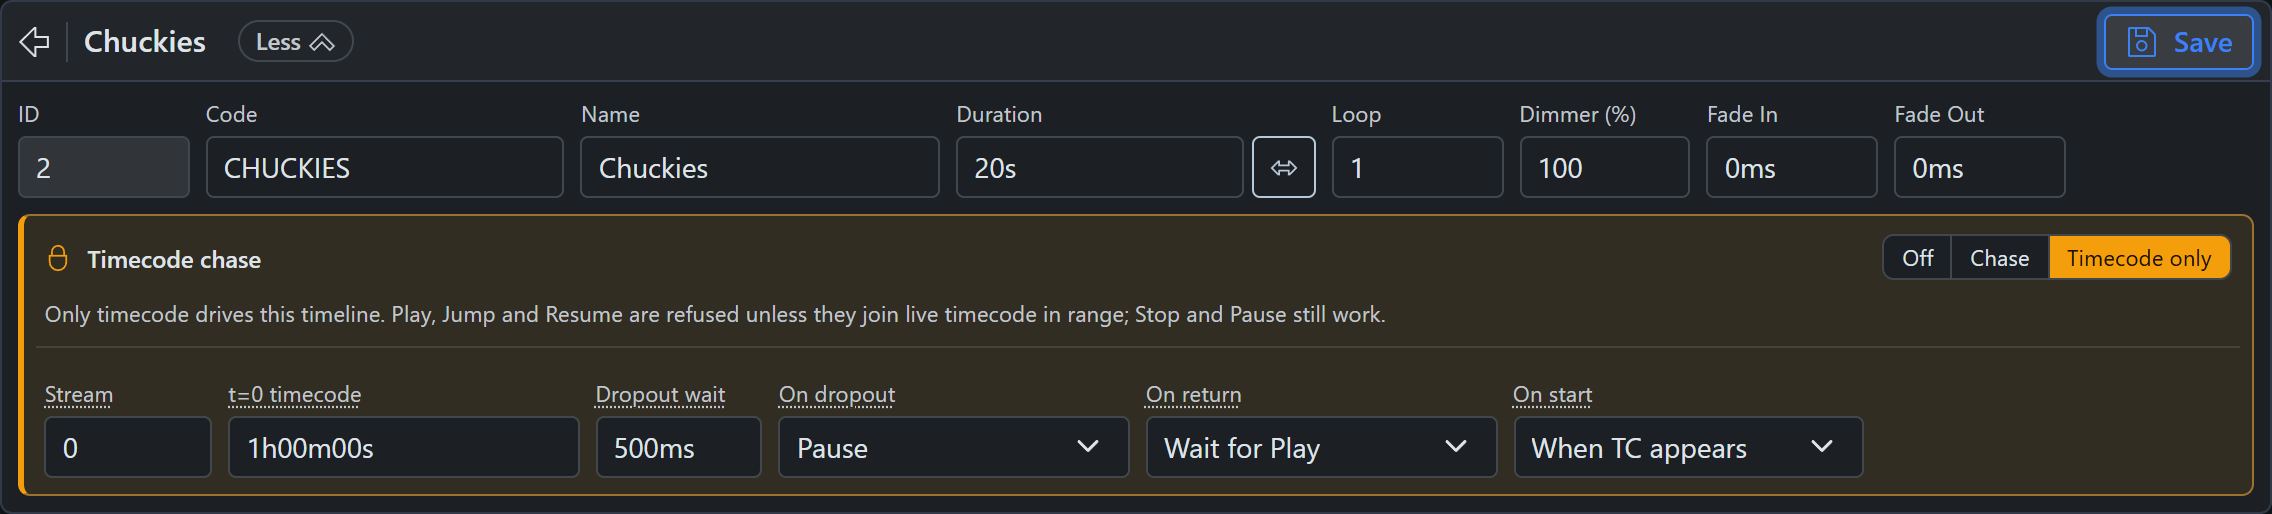
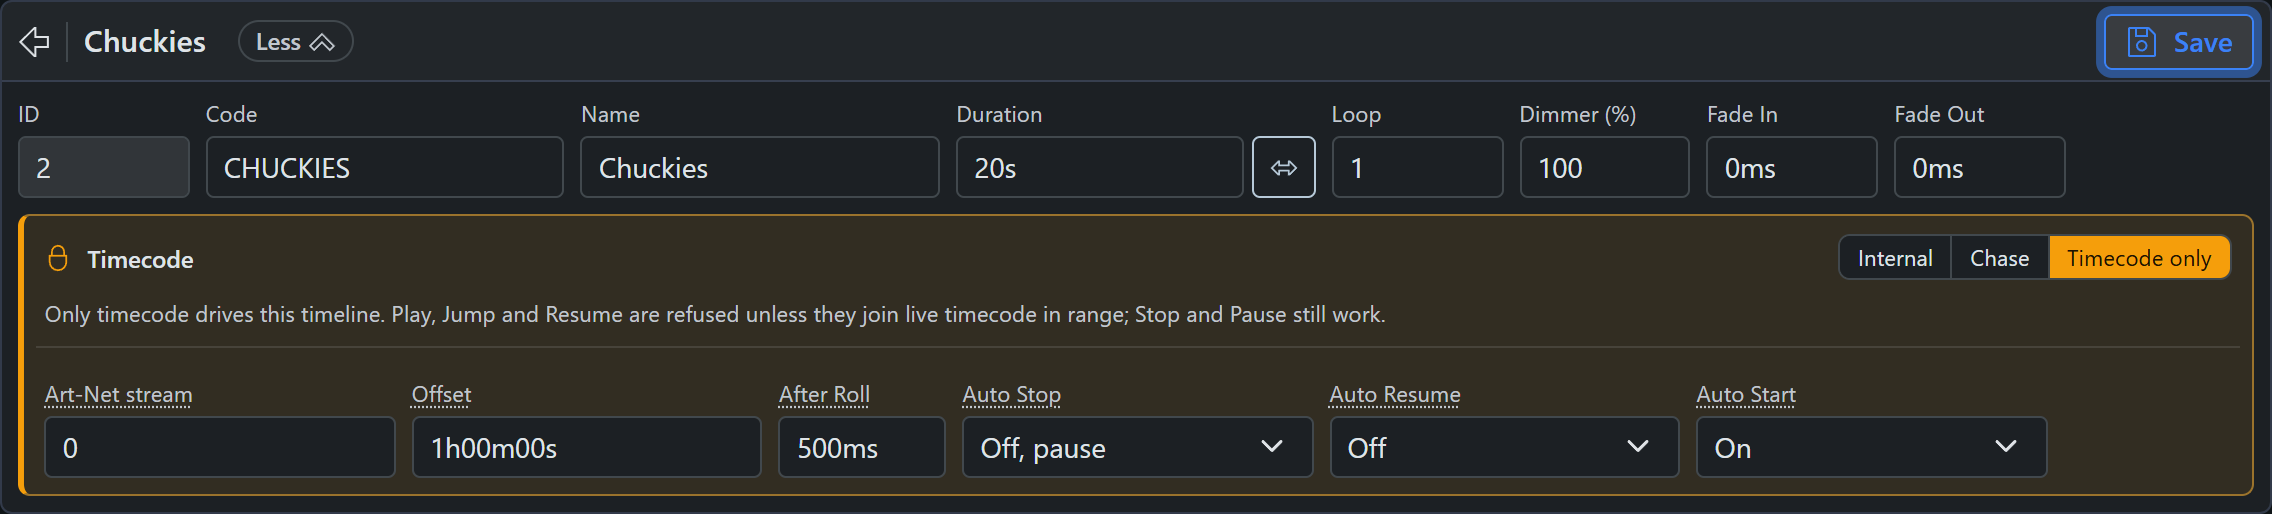
Timecode chase: use the grandMA3 vocabulary throughout (Internal / Chase / Timecode only, Offset, After Roll, Auto Stop, Auto Resume, Auto Start, Art-Net stream), rewrite the dropout and start sections around it, and refresh the settings screenshot.

diff --git a/src/content/docs/dmx-core-100/playback/timecode-chase.md b/src/content/docs/dmx-core-100/playback/timecode-chase.md
@@ -1,6 +1,6 @@
 ---
 title: Timecode Chase
-description: Lock a timeline to incoming Art-Net timecode so playback joins the site clock instead of starting at t=0
+description: Lock a timeline to incoming Art-Net timecode so playback joins the site clock instead of starting at the beginning
 ---
 
 **Timecode chase** locks a timeline to incoming **Art-Net ArtTimeCode** so the playhead follows a site-wide clock instead of starting at the cursor. Play joins *wherever that clock is now* — three minutes into a show after a reboot, or at the same frame as every other controller on the network.
@@ -9,8 +9,10 @@ Typical setup: QLab, TimeCore, Timecode Expert, or another ArtTimeCode generator
 
 This is a **playhead chase**, not a per-cue timecode trigger. Cues, presets, and sounds on the timeline still fire by their timeline times; the clock only decides *where* the playhead is. A join that lands inside a cue or sound starts it part-way through (a soundtrack picks up mid-file); events that were already over before the join point are skipped.
 
+The settings use the same vocabulary as grandMA3's timecode shows and slots — **Internal**, **Offset**, **After Roll**, **Auto Start**, **Auto Stop** — so an operator coming from a console should find them familiar.
+
 :::tip[Web UI only]
-Chase is configured in the timeline editor, under **Lighting > Timelines**. Playback still starts from anywhere — touchscreen, schedules, custom menus, control surfaces, and [input triggers](/dmx-core-100/scheduling-automation/input-triggers) — unless the timeline is set to [Timecode only](#timecode-only).
+Timecode is configured in the timeline editor, under **Lighting > Timelines**. Playback still starts from anywhere — touchscreen, schedules, custom menus, control surfaces, and [input triggers](/dmx-core-100/scheduling-automation/input-triggers) — unless the timeline is set to [Timecode only](#timecode-only).
 :::
 
 See [Timelines](/dmx-core-100/playback/timelines) for the editor itself.
@@ -34,116 +36,116 @@ The timeline editor status bar has a **TC:** chip:
 - **waiting…** — no live ArtTimeCode on this network (or it went silent).
 - `HH:MM:SS:FF` plus fps and source IP — packets are arriving.
 
-Confirm this chip before opening day. Chase settings do not have to be on for the readout to work.
+Confirm this chip before opening day. The timeline does not have to be in a timecode mode for the readout to work.
 
-## Enabling Chase
+## Timecode Mode
 
-Open the timeline editor, expand **timeline settings** (the **More...** pill next to the name), and pick a **Timecode chase** mode. **Off** is the default. The knobs below appear for either chase mode.
+Open the timeline editor, expand **timeline settings** (the **More...** pill next to the name), and pick a mode in the **Timecode** section. **Internal** is the default. The settings below appear for either timecode mode.
 
 | Mode | Meaning |
 |------|---------|
-| **Off** | Timecode is ignored. Play starts at the cursor. |
+| **Internal** | The timeline runs on its own clock and ignores incoming timecode. Play starts at the cursor. |
 | **Chase** | Play joins live timecode when it is in range. Without timecode, the timeline runs on its own clock from the cursor, so an operator can still preview or run it by hand. |
 | **Timecode only** | Only the clock can drive the timeline. Play, Jump, and Resume are refused unless they join live timecode in range. See [Timecode only](#timecode-only). |
 
-![Timeline settings with Timecode chase set to Timecode only](/assets/web/timeline-timecode-chase.png)
+![Timeline settings with Timecode set to Timecode only](/assets/web/timeline-timecode-chase.png)
 
 | Setting | Meaning |
 |---------|---------|
-| **Stream** | Art-Net timecode stream **0–255**. Must match the generator (often **0**). |
-| **t=0 timecode** | Incoming timecode that maps to the start of this timeline. Default is **1 hour** (`01:00:00:00` / `1h00m00s`). |
-| **Dropout wait** | How long timecode can go silent *or freeze on the same frame* before this is treated as a dropout. Default **500 ms**, minimum **100 ms**. Separate from **On dropout** (what to do afterward). |
-| **On dropout** | After the wait: **Pause**, **Keep playing**, or **Stop until Play**. |
-| **On return** | When timecode comes back after a dropout: **Follow again** or **Wait for Play**. Hidden when dropout is **Stop until Play** (that mode always waits for Play). |
-| **On start** | How the timeline first locks: **When TC appears** or **Join on Play**. |
+| **Art-Net stream** | Art-Net timecode stream **0–255**. Must match the generator (often **0**). |
+| **Offset** | The incoming timecode at the **start** of this timeline (timeline `00:00`). Default is **1 hour** (`01:00:00:00` / `1h00m00s`). |
+| **After Roll** | How long the timeline keeps running on its own clock after the signal stops *or freezes on the same frame*, before **Auto Stop** applies. Default **500 ms**, minimum **100 ms**. |
+| **Auto Stop** | What happens when the After Roll runs out: **Off, pause**, **Off, keep running**, or **On, stop**. |
+| **Auto Resume** | When timecode comes back after the After Roll: **On** follows it again, **Off** waits for Play. Hidden when Auto Stop is **On, stop** (that mode always waits for Play or Auto Start). |
+| **Auto Start** | **On** starts the timeline by itself when valid timecode is in range; **Off** waits for Play. |
 
-Save the timeline after changing these. Suggested defaults when you first enable chase: mode **Chase**, Stream **0**, t=0 **1 hour**, Dropout wait **500 ms**, On dropout **Pause**, On return **Follow again**, On start **Join on Play**.
+Save the timeline after changing these. Suggested settings when you first turn timecode on: mode **Chase**, Art-Net stream **0**, Offset **1 hour**, After Roll **500 ms**, Auto Stop **Off, pause**, Auto Resume **On**, Auto Start **Off**.
 
-### t=0 and range
+### Offset and range
 
-Timeline position is *incoming timecode minus t=0*. With t=0 at `01:00:00:00`, a packet of `01:00:08:00` is **8 seconds** into the timeline.
+Timeline position is *incoming timecode minus Offset*. With the Offset at `01:00:00:00`, a packet of `01:00:08:00` is **8 seconds** into the timeline.
 
-- **Before t=0** (pre-roll) is out of range: **When TC appears** does not start yet; **Play** starts at the beginning of the timeline and then catches the clock when it reaches t=0. In the last second before t=0 the timeline is loaded in advance so the start at t=0 is frame-accurate.
-- **Past the timeline duration** is also out of range: no auto-join. If the timeline is already playing, it ends (or follows **On dropout**) as usual.
+- **Before the Offset** is out of range: **Auto Start** does not start yet; **Play** starts at the beginning of the timeline and then catches the clock when it reaches the Offset. In the last second before the Offset the timeline is loaded in advance (a lead-in) so the start is frame-accurate.
+- **Past the timeline duration** is also out of range: no auto start. If the timeline is already playing, it ends (or follows **Auto Stop**) as usual.
 
 Frame rate follows the packet (24, 25, 29.97 drop-frame, or 30 fps). There is no separate fps setting.
 
 ## How Play Joins
 
-When chase is on and live timecode is **in range** (matching **Stream**):
+When the timeline is in a timecode mode and live timecode is **in range** (matching **Art-Net stream**):
 
 - **Play** — from the Web UI, touchscreen, a schedule, a custom menu, OSC, the API, or a script — **joins the live clock**. It does not start at the editor cursor.
-- **Jump / scrub Play** in the editor does the same: disable chase if you need to preview from the cursor.
+- **Jump / scrub Play** in the editor does the same: set the mode to **Internal** if you need to preview from the cursor.
 - **Loop** is treated as **1** while chasing. A non-looping site clock should not wrap a looping timeline.
 
 A mid-show join takes about **one second**: the timeline is loaded one second ahead of the clock and started the moment the clock gets there, so the playhead lands within a few milliseconds of timecode instead of a load time behind it. Expect that short delay after pressing Play.
 
-To preview or run the timeline on its own clock, set **Timecode chase** to **Off**. In **Chase** mode a Play with no live timecode also runs the timeline on its own clock from the cursor; in **Timecode only** it is refused.
+To preview or run the timeline on its own clock, set **Timecode** to **Internal**. In **Chase** mode a Play with no live timecode also runs the timeline on its own clock from the cursor; in **Timecode only** it is refused.
 
 ## Timecode Only
 
-Use **Timecode only** when the timeline must never run off the clock — a show that has to stay in sync with the site's audio or video, where a stray Play from a touchscreen, a schedule, or a control surface would run the lights out of sync.
+Use **Timecode only** when the timeline must never run off the clock — a show that has to stay in sync with the site's audio or video, where a stray Play from a touchscreen, a schedule, or a control surface would run the lights out of sync. This is how a grandMA3 timecode show assigned to a TC Slot behaves.
 
 - **Play, Jump, and Resume are accepted only when they join live timecode in range.** Otherwise they are refused, from every source: the timeline editor, the Timelines page, the touchscreen, custom menus, control surfaces, input triggers, schedules, OSC, and the API. The Web UI shows the reason (for example *"Timeline SHOW is timecode only and no timecode is being received on stream 0"*); schedules and triggers log a warning and skip the action.
 - **Stop and Pause still work.** Stop stays the emergency override. A stopped timeline re-arms for the next pass of the clock exactly as in Chase mode; while the clock is still live and in range, Play or Resume rejoins it.
-- **On start** still applies. **When TC appears** starts the timeline by itself; **Join on Play** needs a Play while timecode is live and in range.
-- **Dropout settings are unchanged.** **Keep playing** still lets the timeline run on its own clock after a dropout, if that is what you chose.
+- **Auto Start** still applies. **On** starts the timeline by itself; **Off** needs a Play while timecode is live and in range.
+- **After Roll and Auto Stop are unchanged.** **Off, keep running** still lets the timeline run on its own clock after the signal is lost, if that is what you chose.
 
 The editor header shows a **TC only** chip for such a timeline, and the settings panel turns amber with a lock icon.
 
 ## While Locked
 
-- **Locates and restarts on the generator are followed.** If the clock jumps forward by more than a second, or backwards at all (a stop and restart at the top, for example), the timeline re-seeks to the new position. Small drift is not corrected: once locked, the timeline runs on its own clock until the next dropout, jump, or Play.
-- **A rewind to before t=0 stops the timeline.** The clock says the show has not started; the timeline re-arms for t=0 and starts again when the clock gets there (**When TC appears**) or waits for Play.
-- **Stop and Pause are yours.** Stopping or pausing a chased timeline (from the Web UI, touchscreen, or any trigger) sticks: it does not restart by itself while the same pass of the clock is running, even with **When TC appears**. Play rejoins the live clock; **Resume** on a paused timeline also rejoins live timecode rather than continuing from where it was paused.
-- **A new show clears that.** When the clock rewinds or leaves the timeline's range, a stopped or paused timeline is ready to auto-join again (**When TC appears**), or waits for Play (**Join on Play**).
+- **Locates and restarts on the generator are followed.** If the clock jumps forward by more than a second, or backwards at all (a stop and restart at the top, for example), the timeline re-seeks to the new position. Small drift is not corrected: once locked, the timeline runs on its own clock until the next signal loss, jump, or Play.
+- **A rewind to before the Offset stops the timeline.** The clock says the show has not started; the timeline re-arms for the start and starts again when the clock gets there (**Auto Start On**) or waits for Play.
+- **Stop and Pause are yours.** Stopping or pausing a chased timeline (from the Web UI, touchscreen, or any trigger) sticks: it does not restart by itself while the same pass of the clock is running, even with **Auto Start On**. Play rejoins the live clock; **Resume** on a paused timeline also rejoins live timecode rather than continuing from where it was paused.
+- **A new show clears that.** When the clock rewinds or leaves the timeline's range, a stopped or paused timeline is ready to start again by itself (**Auto Start On**), or waits for Play (**Auto Start Off**).
 
-## On Start
+## Auto Start
 
 | Choice | Behavior |
 |--------|----------|
-| **Join on Play** (default) | The timeline stays idle until Play (or another trigger). Then it joins live timecode if it is in range. |
-| **When TC appears** | As soon as valid timecode is in range, the timeline starts by itself — including after a device restart, as long as the clock is still in range. |
+| **Off** (default) | The timeline stays idle until Play (or another trigger). Then it joins live timecode if it is in range. |
+| **On** | As soon as valid timecode is in range, the timeline starts by itself — including after a device restart, as long as the clock is still in range. |
 
-Use **When TC appears** when the site clock is the master and you want every Core to catch the show without someone pressing Play. Use **Join on Play** when an operator or schedule should still *choose* to join.
+Use **On** when the site clock is the master and you want every Core to catch the show without someone pressing Play. Use **Off** when an operator or schedule should still *choose* to join.
 
-## On Dropout and On Return
+## After Roll, Auto Stop, and Auto Resume
 
-A dropout is either **silence** (packets stop) or a **hold** (the same frame repeats) for longer than **Dropout wait**. Both count.
+The signal is lost when packets **stop** or the same frame **repeats** (a hold on the generator). Both count. For the length of the **After Roll** the timeline keeps running on its own clock; if the signal comes back in time, nothing happens. When the After Roll runs out, **Auto Stop** applies.
 
-| On dropout | What happens |
-|------------|----------------|
-| **Pause** | Hold the last look. The playhead freezes. |
-| **Keep playing** | Keep running on this timeline's own clock (freerun). |
-| **Stop until Play** | Stop the timeline. The next Play joins live timecode again; timecode returning on its own is ignored for the rest of this pass. **On return** is not used. When the clock rewinds for the next show, **When TC appears** starts the timeline again without a Play. |
-
-When timecode comes back (Pause or Keep playing):
-
-| On return | What happens |
+| Auto Stop | What happens |
 |-----------|----------------|
-| **Follow again** | Re-lock to live timecode immediately. A paused timeline seeks to the current clock; a freerunning one re-locks in place if it is still within half a second of the clock and seeks only if it has drifted further. |
-| **Wait for Play** | Stay paused or freerunning. Play (or Resume, if the timeline is paused) joins the live clock when you are ready. With **When TC appears**, the next show (clock rewinds or leaves range) stops the paused timeline and starts it again at t=0 by itself. |
+| **Off, pause** | Hold the last look. The playhead freezes. |
+| **Off, keep running** | Keep running on this timeline's own clock, indefinitely. |
+| **On, stop** | Stop the timeline. The next Play joins live timecode again; timecode returning on its own is ignored for the rest of this pass. **Auto Resume** is not used. When the clock rewinds for the next show, **Auto Start On** starts the timeline again without a Play. |
+
+When timecode comes back (Off, pause or Off, keep running):
+
+| Auto Resume | What happens |
+|-------------|----------------|
+| **On** | Re-lock to live timecode immediately. A paused timeline seeks to the current clock; a timeline that kept running re-locks in place if it is still within half a second of the clock and seeks only if it has drifted further. |
+| **Off** | Stay paused or keep running. Play (or Resume, if the timeline is paused) joins the live clock when you are ready. With **Auto Start On**, the next show (clock rewinds or leaves range) stops the paused timeline and starts it again from the beginning by itself. |
 
 ## Restart Mid-Show
 
-Chase settings are stored with the timeline. After a reboot, chase-enabled timelines load again and the Art-Net listener re-attaches.
+Timecode settings are stored with the timeline. After a reboot, timelines in a timecode mode load again and the Art-Net listener re-attaches.
 
-- **When TC appears** — if the clock is still in range, the timeline **auto-joins at the live position**, not t=0.
-- **Join on Play** — wait for Play; that Play still joins live timecode, not the start.
+- **Auto Start On** — if the clock is still in range, the timeline **starts at the live position**, not the beginning.
+- **Auto Start Off** — wait for Play; that Play still joins live timecode, not the start.
 
 ## Holds
 
-A [Hold milestone](/dmx-core-100/playback/hold-milestones) **leaves chase** while the timeline is holding. Incoming timecode is ignored until the hold is released, including generator restarts. After release, **On return** applies: **Follow again** re-locks to live TC if it is in range; **Wait for Play** (or **Stop until Play** as the dropout mode) stays uncoupled until Play.
+A [Hold milestone](/dmx-core-100/playback/hold-milestones) **leaves the clock** while the timeline is holding. Incoming timecode is ignored until the hold is released, including generator restarts. After release, **Auto Resume** applies: **On** re-locks to live TC if it is in range; **Off** (or **On, stop** as the Auto Stop choice) stays uncoupled until Play.
 
 ## Troubleshooting
 
 | Symptom | Check |
 |---------|--------|
 | TC chip stays on **waiting…** | Generator destination is the device IP (or broadcast) on UDP **6454**, not loopback. Device and generator are on the same subnet. Firewall is not blocking UDP 6454. |
-| Play starts at 0 instead of joining | Chase mode is saved as **Chase** or **Timecode only**. Stream matches the generator. Live TC is **in range** (at or after t=0, before duration). |
-| Play is refused with a "timecode only" message | The timeline is **Timecode only** and there is no live timecode in range on its **Stream**. Wait for the clock (check the TC chip), or switch the mode to **Chase** to run it by hand. |
-| One unit chases, another does not | Stream IDs match. Each unit's t=0 and duration cover the same clock window. |
-| Timeline stops when TC freezes | That is **Pause** or **Stop until Play**. Use **Keep playing** if a frozen frame should not hold the look. |
-| Auto-join never starts | **On start** is **Join on Play** (the default) — press Play. Or TC is still in pre-roll / past the end. Or the timeline was stopped or paused during this pass of the clock: press Play, or let the clock rewind for the next show. |
+| Play starts at the beginning instead of joining | Timecode mode is saved as **Chase** or **Timecode only**. Art-Net stream matches the generator. Live TC is **in range** (at or after the Offset, before the end). |
+| Play is refused with a "timecode only" message | The timeline is **Timecode only** and there is no live timecode in range on its **Art-Net stream**. Wait for the clock (check the TC chip), or switch the mode to **Chase** to run it by hand. |
+| One unit chases, another does not | Art-Net streams match. Each unit's Offset and duration cover the same clock window. |
+| Timeline stops when TC freezes | That is **Off, pause** or **On, stop** after the After Roll. Use **Off, keep running** if a frozen frame should not hold the look, or lengthen the After Roll. |
+| Timeline never starts by itself | **Auto Start** is **Off** (the default) — press Play. Or TC is still before the Offset / past the end. Or the timeline was stopped or paused during this pass of the clock: press Play, or let the clock rewind for the next show. |
 | Timeline starts about a second after Play | Expected: a mid-show join is loaded one second ahead so it lands on the clock. |
 | Playhead is a few frames off after a restart | Check the generator's frame-rate flag matches its actual rate; the timeline follows the packet's rate. |

diff --git a/src/content/docs/dmx-core-100/release-notes.md b/src/content/docs/dmx-core-100/release-notes.md
@@ -5,8 +5,8 @@ description: Release notes and highlights
 
 | Version | Date | Highlights |
 |---------|------|------------|
-| v2026.904.x | 9/4/2026 | [Timecode chase](/dmx-core-100/playback/timecode-chase) gains a **Timecode only** mode: Play, Jump, and Resume are refused unless they join live timecode in range, from the editor, touchscreen, schedules, triggers, and the API alike, so a show that must stay in sync with the site clock can never be started by hand; Stop and Pause still work. The chase switch is now a three-way **Off / Chase / Timecode only** control |
-| v2026.902.x | 9/2/2026 | [Timecode chase](/dmx-core-100/playback/timecode-chase): lock a timeline to incoming Art-Net ArtTimeCode — Play joins the live clock instead of t=0, with per-timeline stream, offset, dropout, and auto-join settings; after a restart the timeline re-locks at the current timecode when **When TC appears** is on |
+| v2026.904.x | 9/4/2026 | [Timecode chase](/dmx-core-100/playback/timecode-chase) gains a **Timecode only** mode: Play, Jump, and Resume are refused unless they join live timecode in range, from the editor, touchscreen, schedules, triggers, and the API alike, so a show that must stay in sync with the site clock can never be started by hand; Stop and Pause still work. The timecode mode is a three-way **Internal / Chase / Timecode only** control |
+| v2026.902.x | 9/2/2026 | [Timecode chase](/dmx-core-100/playback/timecode-chase): lock a timeline to incoming Art-Net ArtTimeCode — Play joins the live clock instead of t=0, with per-timeline Art-Net stream, Offset, After Roll, Auto Stop, Auto Resume, and Auto Start settings; after a restart the timeline re-locks at the current timecode when **Auto Start** is on |
 | v2026.831.x | 8/31/2026 | [Visualizer](/dmx-core-100/lighting/visualizer): 2D live visualizer — place fixtures on photos of your venue (or a truss canvas with a small scenery kit) and watch presets, fixture control, and effects light them up live; cone/wash/glow/strip overlays, the same fixture on many views (and many times on one — nine pendants on one address), place multi-copy fixtures as a strip, per-copy trims with Solo right from the photo |
 | v2026.827.x | 8/27/2026 | [Factory reset](/dmx-core-100/configuration/utilities#factory-reset) from **Utilities > System**: type RESET to wipe show content, users, and settings while keeping network, license, and local backups — sign in afterward as Administrator with PIN 1111 |
 | v2026.826.x | 8/26/2026 | [MCP Server](/dmx-core-100/integrations/mcp-server): control lighting from AI clients such as Claude Desktop and Cursor over the Model Context Protocol — list entities, play cues, adjust levels, and drive fixture colors, secured with MCP-only API keys issued from the Web UI |

diff --git a/src/content/docs/dmx-core-100/playback/hold-milestones.md b/src/content/docs/dmx-core-100/playback/hold-milestones.md
@@ -5,7 +5,7 @@ description: Pause a timeline at a marker until a trigger releases it — while 
 
 A **Hold** milestone makes a timeline wait. Playback stops advancing at the marker until the hold is *released* — by letting go of the button that started the timeline, by another input trigger, from the Web UI, or by a timeout. While the timeline waits, looping sounds and cues keep playing and the lighting output holds its last frame.
 
-If the timeline is also using [Timecode chase](/dmx-core-100/playback/timecode-chase), it **leaves the clock** for the duration of the hold and applies **On return** when the hold is released.
+If the timeline is also using [Timecode chase](/dmx-core-100/playback/timecode-chase), it **leaves the clock** for the duration of the hold and applies **Auto Resume** when the hold is released.
 
 Holds turn a linear timeline into an interactive one: a sequence that pours while a handle is pulled, a show that waits for an operator's go, a step that only continues once a payment or sensor signal arrives.
 
